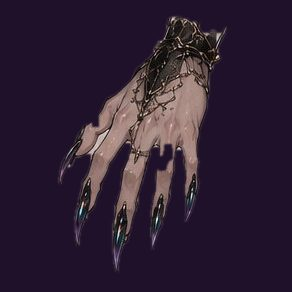
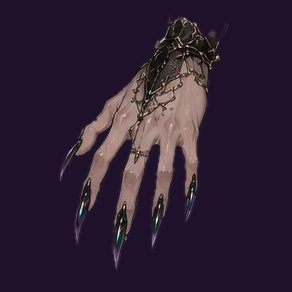
Recorte de fondo con IA (rembg, isnet-anime) más limpieza de sombras del suelo
Claude-Session: https://claude.ai/code/session_015y66tGhFXGqDMfCXcQhCLo

diff --git a/leyountempest/herramientas/recortes.py b/leyountempest/herramientas/recortes.py
@@ -1,7 +1,7 @@
 #!/usr/bin/env python3
 """Genera los recortes de Aurelia a partir de las hojas de referencia.
 
-Uso (desde la carpeta leyountempest/):
+Uso (desde la carpeta leyountempest/; con rembg instalado, p. ej. pip install rembg onnxruntime, recorta con IA):
     python3 herramientas/recortes.py            # escribe en assets/aurelia/
     python3 herramientas/recortes.py --debug    # además deja vistas previas sobre fondo oscuro en /tmp
 
@@ -162,7 +162,52 @@ def fundir(im, fade, halo=None, umbral=46):
     return rgba
 
 
+_sesion = None
+
+
+def mascara_ia(im):
+    """Máscara de la figura con rembg (modelo isnet-anime). None si rembg no está instalado."""
+    global _sesion
+    try:
+        from rembg import remove, new_session
+    except ImportError:
+        return None
+    if _sesion is None:
+        _sesion = new_session("isnet-anime")
+    return remove(im, session=_sesion, only_mask=True)
+
+
 def recortar(im, umbral=40, suelo_desde=None):
+    """Recorta con IA (rembg) si está disponible; si no, con el método por umbral (recortar_umbral)."""
+    m = mascara_ia(im)
+    if m is None:
+        return recortar_umbral(im, umbral, suelo_desde)
+    a = np.asarray(im).astype(np.float32)
+    alfa = np.asarray(m.point(lambda v: 255 if v > 128 else 0)).astype(np.uint8)
+    # La IA conserva el papel encerrado (curva de la cola, tras el ala) y las sombras del suelo.
+    # Se resta todo lo que tenga el color del papel; en la franja del suelo, con tolerancia mayor.
+    suave = np.asarray(im.filter(ImageFilter.GaussianBlur(1.0))).astype(np.float32)
+    papel = np.median(np.concatenate([a[:8].reshape(-1, 3), a[-8:].reshape(-1, 3)]), axis=0)
+    dist = np.abs(suave - papel).max(2)
+    quitar = dist < 30
+    # Se erosiona antes de filtrar para cortar los puentes finos hacia las manchas de piel (que se parecen al papel).
+    q = Image.fromarray(quitar.astype(np.uint8) * 255).filter(ImageFilter.MinFilter(13))
+    q = quitar_motas(q, minimo=1500).filter(ImageFilter.MaxFilter(13))
+    quitar = np.asarray(q) > 0
+    if suelo_desde is not None:  # franja del suelo: sombras claras del papel, sin filtro de tamaño
+        banda = dist < 85
+        banda[:suelo_desde] = False
+        quitar |= banda
+    alfa[quitar] = 0
+    f = Image.fromarray(alfa).filter(ImageFilter.MinFilter(3)).filter(ImageFilter.MaxFilter(3))
+    f = f.filter(ImageFilter.MinFilter(3)).filter(ImageFilter.GaussianBlur(0.8))
+    f = quitar_motas(f, minimo=500)
+    rgba = im.convert("RGBA")
+    rgba.putalpha(f)
+    return rgba
+
+
+def recortar_umbral(im, umbral=40, suelo_desde=None):
     """Quita el fondo de papel: todo lo conectado al borde que se parece al papel pasa a transparente.
     Devuelve RGBA. Cierra huecos finos (tul, encaje), rellena islas internas y suaviza 1 px el contorno."""
     a = np.asarray(im).astype(np.float32)
@@ -186,7 +231,8 @@ def recortar(im, umbral=40, suelo_desde=None):
 
 
 def quitar_motas(mascara, minimo):
-    """Elimina componentes sueltos con menos de `minimo` píxeles (restos de bocetos y manchas)."""
+    """Elimina componentes sueltos con menos de `minimo` píxeles (restos de bocetos y manchas).
+    Conserva solo los componentes grandes."""
     m = mascara.point(lambda v: 255 if v > 90 else 0)
     base = np.asarray(mascara).copy()
     while True:
